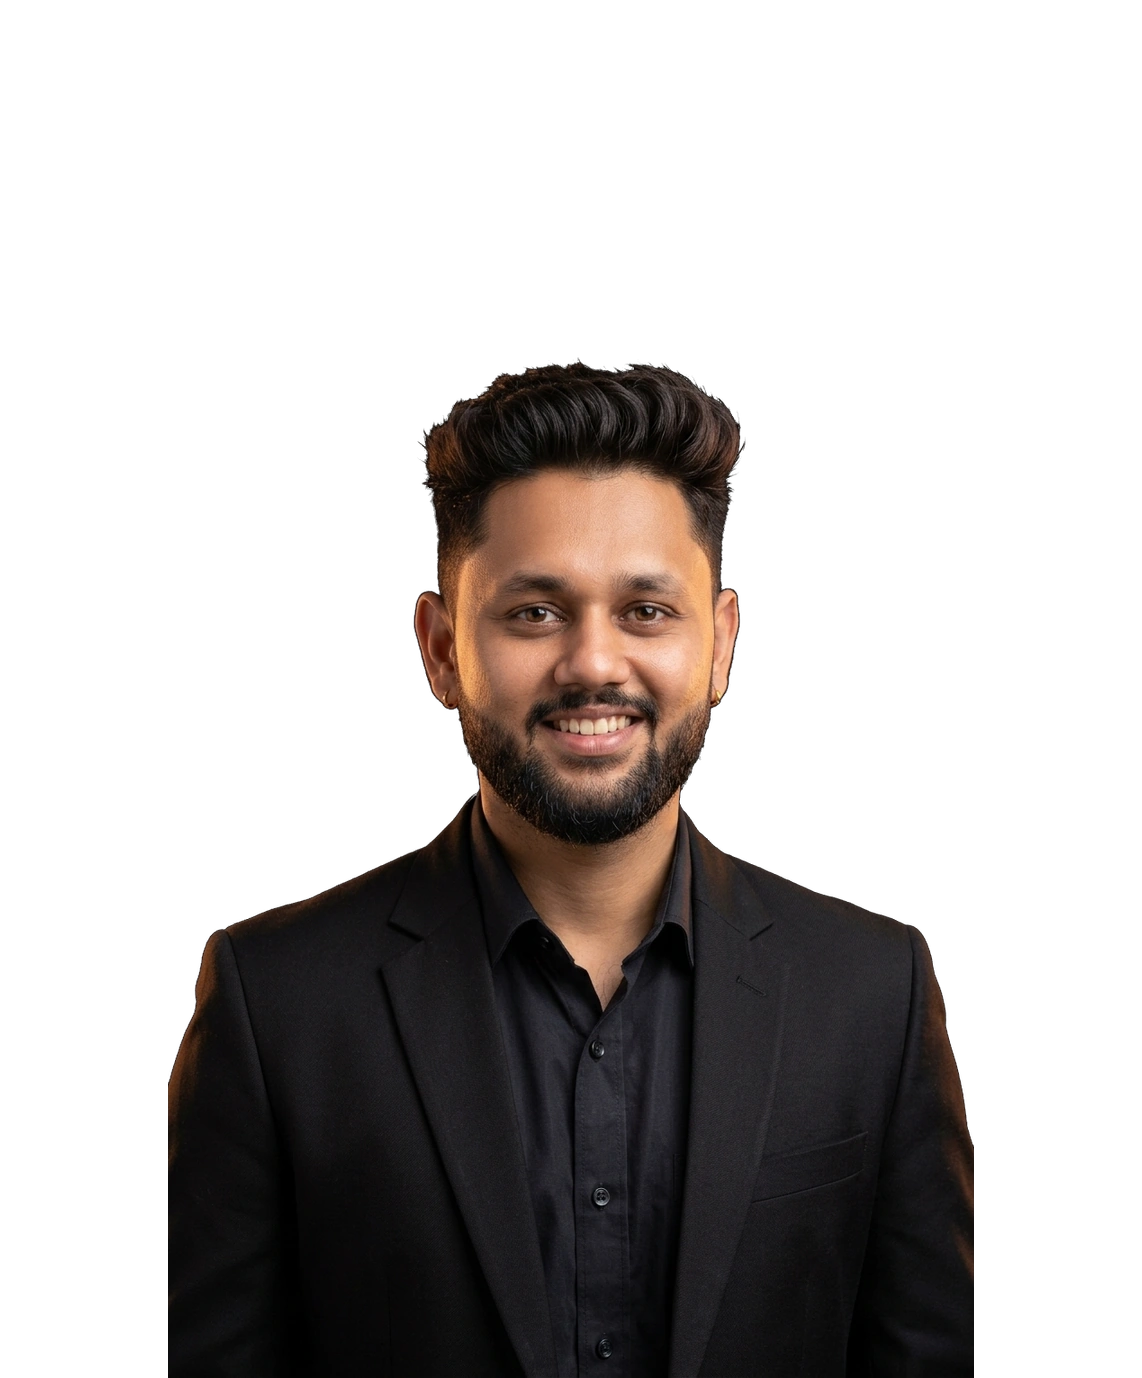
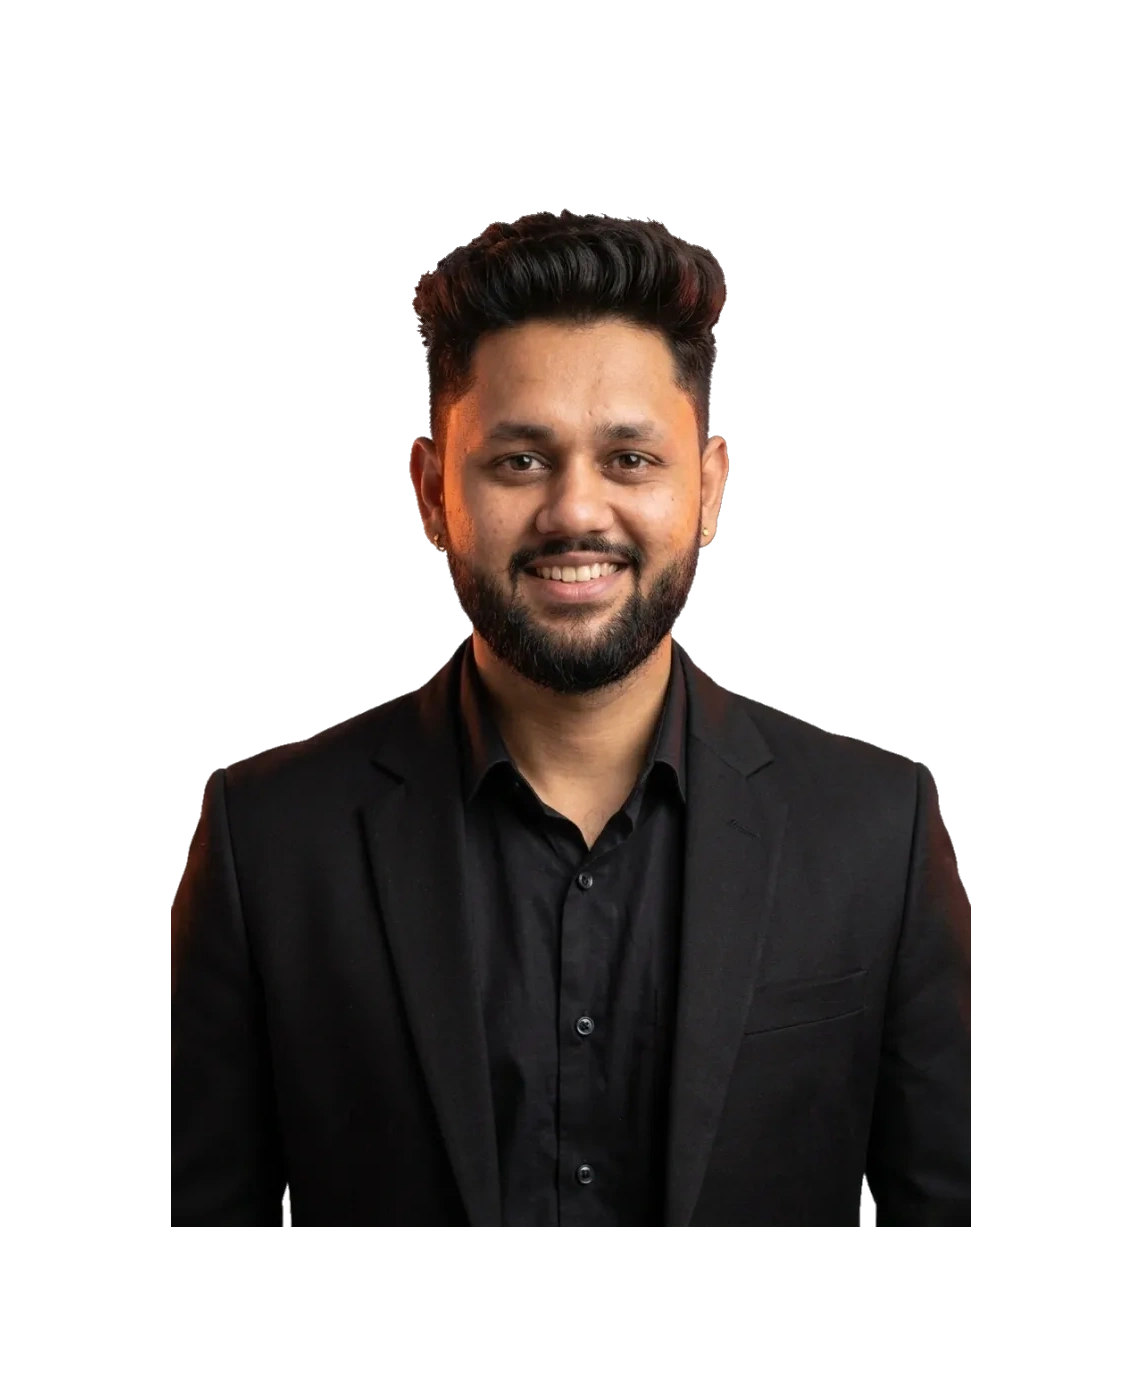
feat(hero): apply approved natural frequency separation skin retouch

diff --git a/src/components/Hero.jsx b/src/components/Hero.jsx
@@ -254,7 +254,7 @@ export default function Hero() {
               height="1378"
               className="w-full h-full object-contain select-none pointer-events-none"
               style={{ color: 'transparent' }}
-              src="/images/yatin-joshi-professional.webp"
+              src="/images/yatin-joshi-retouched.webp"
             />
           </div>
         </div>
